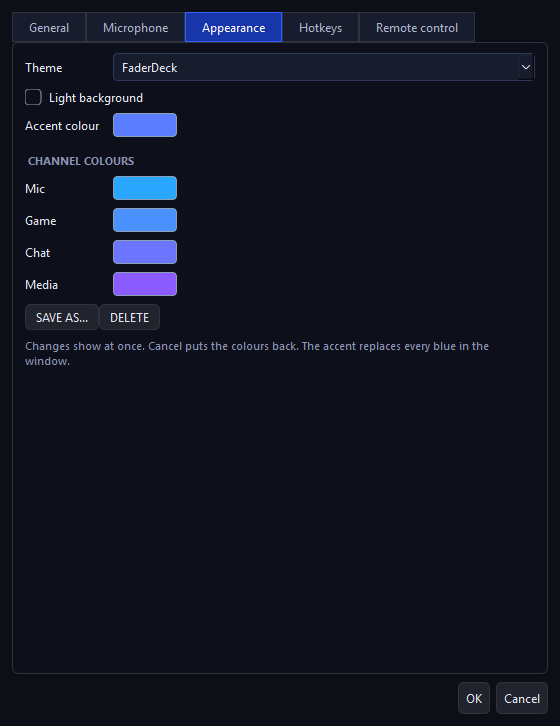
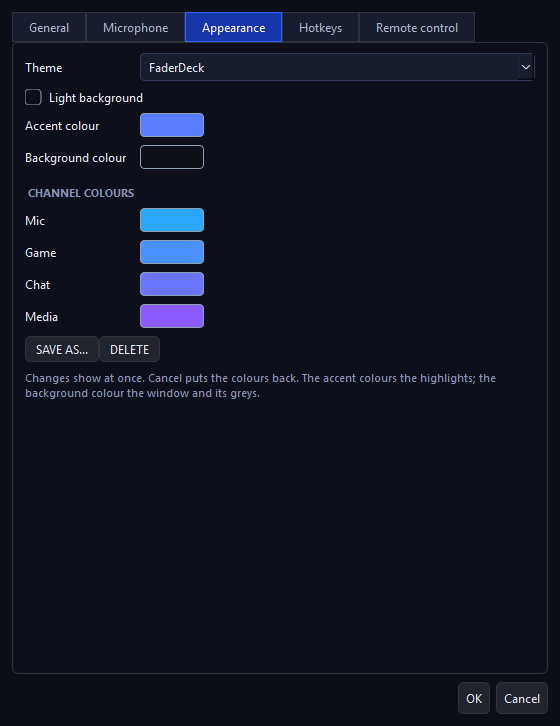
chore(release): version 1.12.0
Releases eleven new built-in themes and the background colour for themes. The README shows all built-in themes side by side instead of the FaderDeck theme alone, and the main window and Appearance pictures are refreshed, taken against the live mixer with the meter levels set for the picture. The note on the Appearance tab says what the accent and the background colour each change.

Changed region(s): [[0.0304, 0.1515, 0.8804, 0.5455], [0.2125, 0.0606, 0.3643, 0.1212], [0.3036, 0.1515, 0.3643, 0.2121]]

diff --git a/main.py b/main.py
@@ -816,7 +816,7 @@ class ColorButton(QPushButton):
 # Updates. FaderDeck asks GitHub for its latest release. An update is that
 # release's installer, checked against the SHA-256 that GitHub publishes for
 # it before it runs.
-APP_VERSION = "1.11.0"
+APP_VERSION = "1.12.0"
 UPDATE_URL = (
     "https://api.github.com/repos/GuyliandeJong/FaderDeck/releases/latest"
 )
@@ -5821,7 +5821,8 @@ class SettingsDialog(QDialog):
         self.form.addRow(theme_row)
         self.add_note(
             "Changes show at once. Cancel puts the colours back. The accent "
-            "replaces every blue in the window."
+            "colours the highlights; the background colour the window and "
+            "its greys."
         )
         self.show_theme(self.original_theme)
 

diff --git a/README.md b/README.md
@@ -49,7 +49,7 @@ Under Settings, Appearance you choose how FaderDeck looks, and every change show
 - A colour of your own for each channel, to match your setup
 - **Save as** keeps your colours as a theme of your own, to switch back to later
 
-![FaderDeck theme](screenshots/themes.png)
+![All built-in themes](screenshots/themes-overview.jpg)
 
 ![Appearance settings](screenshots/settings-appearance.png)
 
